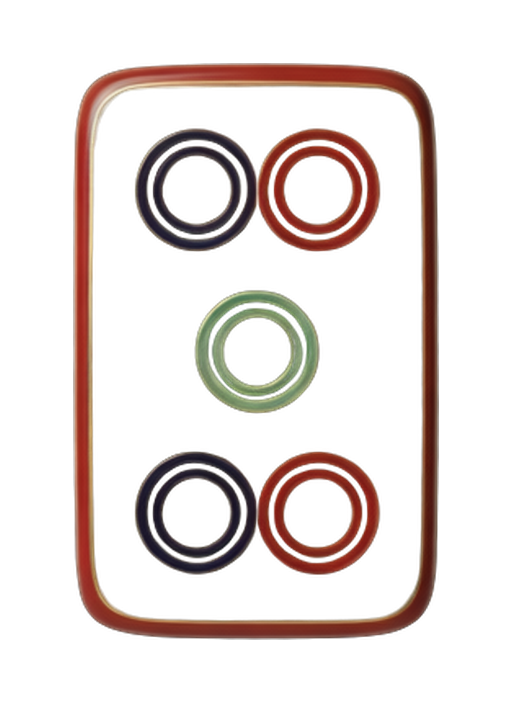
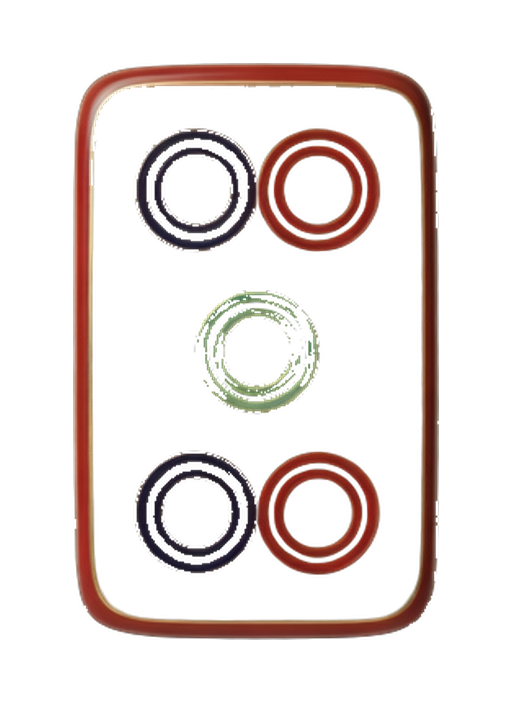
feat(tiles): match the Vita-style thin, bright tile look
- Thin the mesh (0.20 depth) and shrink the bevel so only a slim right and
  bottom edge is visible from the top-down camera.
- Light the face like painted porcelain and keep the acrylic side bright with
  a top-light gradient instead of a dark brown extrusion.
- Drop the height crease/relief shading: it painted a soft dark halo around
  every glyph. The height map stays in the assets for a future optional emboss.
- Remove the painted drop shadow from decomposed glyphs (saturated ink only,
  semi-transparent pixels), and soften the atlas shadow.

diff --git a/tools/RokMahjong.TileArtGen/TileRenderer.cs b/tools/RokMahjong.TileArtGen/TileRenderer.cs
@@ -24,9 +24,8 @@ public sealed record GlyphTexture(int Width, int Height, byte[] Rgba, bool HasAl
 public static class TileRenderer
 {
     private const float TileWidth = 1.0f;
-    private const float TileDepth = 0.55f;
-    private const float EdgeRadius = 0.065f;
-    private const float HeightScale = 0.006f;
+    private const float TileDepth = 0.20f;
+    private const float EdgeRadius = 0.045f;
     private const float FieldOfViewDegrees = 22f;
 
     public static byte[] RenderCell(
@@ -37,8 +36,8 @@ public static class TileRenderer
         int faceWidth,
         int faceHeight,
         GlyphTexture glyph,
-        float yawDegrees = -16f,
-        float pitchDegrees = 10f,
+        float yawDegrees = -14f,
+        float pitchDegrees = 8f,
         int supersample = 2)
     {
         var tileHeight = TileWidth * faceHeight / faceWidth;
@@ -170,39 +169,15 @@ public static class TileRenderer
         v = Math.Clamp(v, 0f, 1f);
 
         var albedo = isFace
-            ? new Vector3(0.96f, 0.93f, 0.86f)
-            : new Vector3(0.80f, 0.72f, 0.60f);
-        var height = 0.5f;
-        var gradient = 0f;
-
+            ? new Vector3(1.00f, 0.97f, 0.90f)
+            : new Vector3(0.97f, 0.95f, 0.88f);
         if (isFace)
         {
             var texel = SampleGlyph(glyph, u, v);
             var alpha = texel.W;
-            if (glyph.HasAlpha)
-            {
-                albedo = Vector3.Lerp(albedo, new Vector3(texel.X, texel.Y, texel.Z), alpha);
-            }
-            else
-            {
-                albedo = new Vector3(texel.X, texel.Y, texel.Z);
-            }
-
-            height = SampleHeight(glyph, blurredHeight, u, v);
-            var step = 1.5f / Math.Max(glyph.Width, glyph.Height);
-            var left = SampleHeight(glyph, blurredHeight, Math.Clamp(u - step, 0f, 1f), v);
-            var right = SampleHeight(glyph, blurredHeight, Math.Clamp(u + step, 0f, 1f), v);
-            var up = SampleHeight(glyph, blurredHeight, u, Math.Clamp(v - step, 0f, 1f));
-            var down = SampleHeight(glyph, blurredHeight, u, Math.Clamp(v + step, 0f, 1f));
-            var dhdu = (right - left) / (2f * step);
-            var dhdv = (down - up) / (2f * step);
-            gradient = MathF.Sqrt(dhdu * dhdu + dhdv * dhdv);
-
-            var bump = new Vector3(
-                -HeightScale * dhdu / TileWidth,
-                HeightScale * dhdv / TileHeightFrom(halfExtents),
-                1f);
-            localNormal = Vector3.Normalize(Vector3.Lerp(localNormal, Vector3.Normalize(bump), 0.85f));
+            albedo = glyph.HasAlpha
+                ? Vector3.Lerp(albedo, new Vector3(texel.X, texel.Y, texel.Z), alpha)
+                : new Vector3(texel.X, texel.Y, texel.Z);
         }
 
         var normal = Vector3.Normalize(Vector3.TransformNormal(localNormal, rotation));
@@ -217,11 +192,13 @@ public static class TileRenderer
         var specular = MathF.Pow(MathF.Max(Vector3.Dot(normal, half), 0f), 42f) * 0.45f;
 
         var ambientOcclusion = AmbientOcclusion(localPoint, halfExtents, localNormal);
-        var crease = isFace ? Math.Clamp(1f - gradient * 0.015f, 0.85f, 1f) : 1f;
-        var relief = isFace ? 1f + (height - 0.5f) * 0.04f : 1f;
 
-        var light = 0.24f * ambientOcclusion + keyDiffuse * 0.88f + fillDiffuse * 0.10f;
-        var color = albedo * light * crease * relief + new Vector3(specular);
+        // The face is lit like painted porcelain; the acrylic side stays bright
+        // and picks up a little top-light gradient instead of going dark.
+        var light = isFace
+            ? 0.40f * ambientOcclusion + keyDiffuse * 0.72f + fillDiffuse * 0.10f
+            : 0.80f + 0.12f * MathF.Max(normal.Y, 0f) + keyDiffuse * 0.10f;
+        var color = albedo * light + new Vector3(specular);
 
         // Slight warm bounce from the ivory body onto the glyph.
         color += new Vector3(0.02f, 0.018f, 0.012f) * ambientOcclusion;

diff --git a/tools/tile-pipeline/roktiles/glyphs.py b/tools/tile-pipeline/roktiles/glyphs.py
@@ -83,6 +83,30 @@ def has_transparency(data: bytes) -> bool:
     return stats.transparency > 0.02
 
 
+def drop_desaturated(
+    image: Image.Image, min_saturation: float = 0.32, max_alpha: int = 235
+) -> Image.Image:
+    """Remove the painted tile's drop shadow from a decomposed glyph layer.
+
+    The layered model leaves a soft, desaturated shadow around the strokes.
+    Ink is strongly saturated (red, green, blue, gold), so desaturated pixels
+    can be made fully transparent.
+    """
+    rgba = image.convert("RGBA")
+    pixels = rgba.load()
+    for y in range(rgba.height):
+        for x in range(rgba.width):
+            red, green, blue, alpha = pixels[x, y]
+            if alpha == 0 or alpha >= max_alpha:
+                continue
+            high = max(red, green, blue)
+            low = min(red, green, blue)
+            saturation = 0.0 if high == 0 else (high - low) / high
+            if saturation < min_saturation:
+                pixels[x, y] = (red, green, blue, 0)
+    return rgba
+
+
 def clean_alpha(image: Image.Image, low: int = 28, high: int = 210) -> Image.Image:
     """Drop the faint residual alpha left by the layered decomposition."""
     alpha = image.getchannel("A")

diff --git a/tools/RokMahjong.TileArtGen/Program.cs b/tools/RokMahjong.TileArtGen/Program.cs
@@ -250,12 +250,12 @@ void DrawCell(SKCanvas canvas, int index, byte[] cell)
 
     using (var shadow = new SKPaint
            {
-               Color = new SKColor(0, 0, 0, 70),
+               Color = new SKColor(0, 0, 0, 42),
                IsAntialias = true,
-               MaskFilter = SKMaskFilter.CreateBlur(SKBlurStyle.Normal, 8),
+               MaskFilter = SKMaskFilter.CreateBlur(SKBlurStyle.Normal, 6),
            })
         canvas.DrawRoundRect(
-            new SKRect(faceRect.Left + 8, faceRect.Top + 14, faceRect.Right + 10, faceRect.Bottom + 14),
+            new SKRect(faceRect.Left + 4, faceRect.Top + 7, faceRect.Right + 6, faceRect.Bottom + 7),
             16,
             16,
             shadow);

diff --git a/tools/tile-pipeline/tests/test_pipeline.py b/tools/tile-pipeline/tests/test_pipeline.py
@@ -167,6 +167,15 @@ def test_choose_glyph_layer_prefers_the_glyph_over_the_body() -> None:
     assert index == 2
 
 
+def test_drop_desaturated_removes_the_painted_shadow() -> None:
+    image = Image.new("RGBA", (8, 8), (0, 0, 0, 0))
+    image.putpixel((0, 0), (120, 110, 100, 180))  # desaturated shadow
+    image.putpixel((1, 0), (170, 40, 45, 255))    # vermilion ink
+    cleaned = glyphs.drop_desaturated(image)
+    assert cleaned.getpixel((0, 0))[3] == 0
+    assert cleaned.getpixel((1, 0))[3] == 255
+
+
 def test_clean_alpha_drops_faint_residual() -> None:
     image = Image.new("RGBA", (8, 8), (0, 0, 0, 0))
     image.putpixel((0, 0), (255, 0, 0, 10))

diff --git a/tools/tile-pipeline/roktiles/applier.py b/tools/tile-pipeline/roktiles/applier.py
@@ -91,7 +91,7 @@ def _fit_canvas(image: Image.Image, size: tuple[int, int], fill: float = 0.82) -
 
 
 def _apply_glyph(label: str, generation: store.Generation, image: Image.Image) -> None:
-    rgba = image.convert("RGBA")
+    rgba = glyphs.drop_desaturated(image)
     rgba.putalpha(glyphs.clean_alpha(rgba))
     canvas = _fit_canvas(rgba, config.GLYPH_SIZE)
     glyph_path = config.GLYPH_DIR / f"{label}.png"
